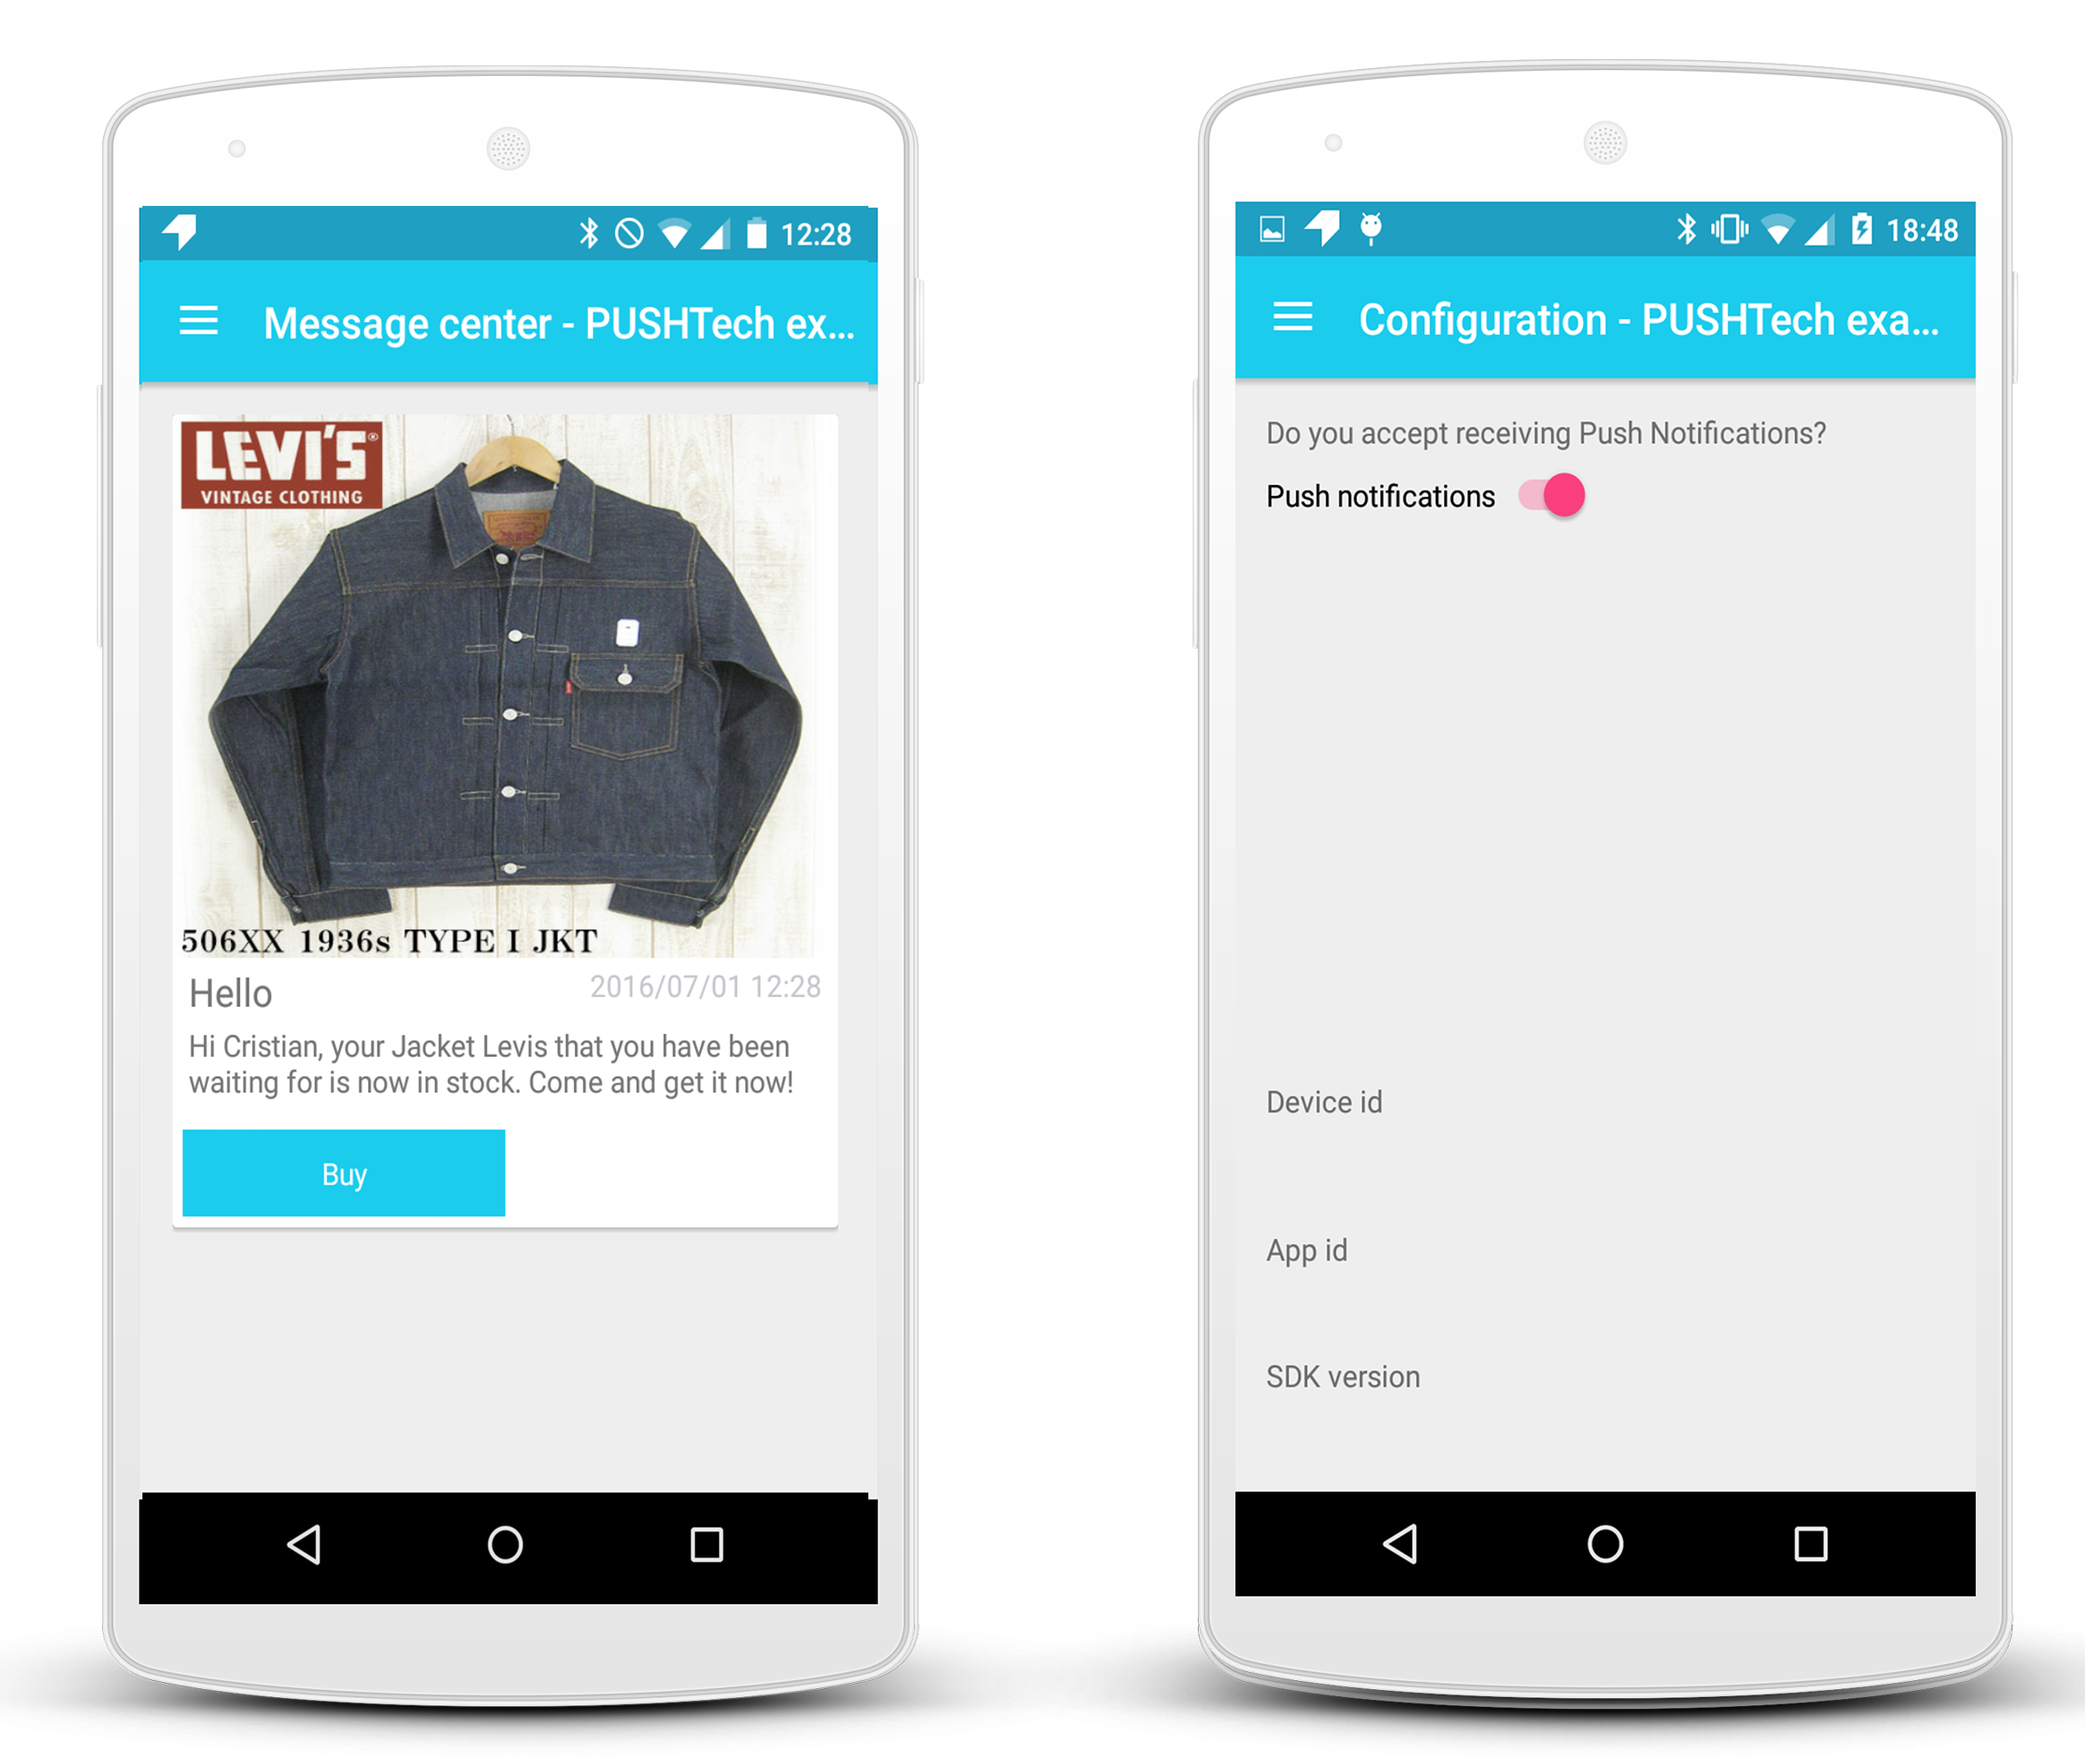
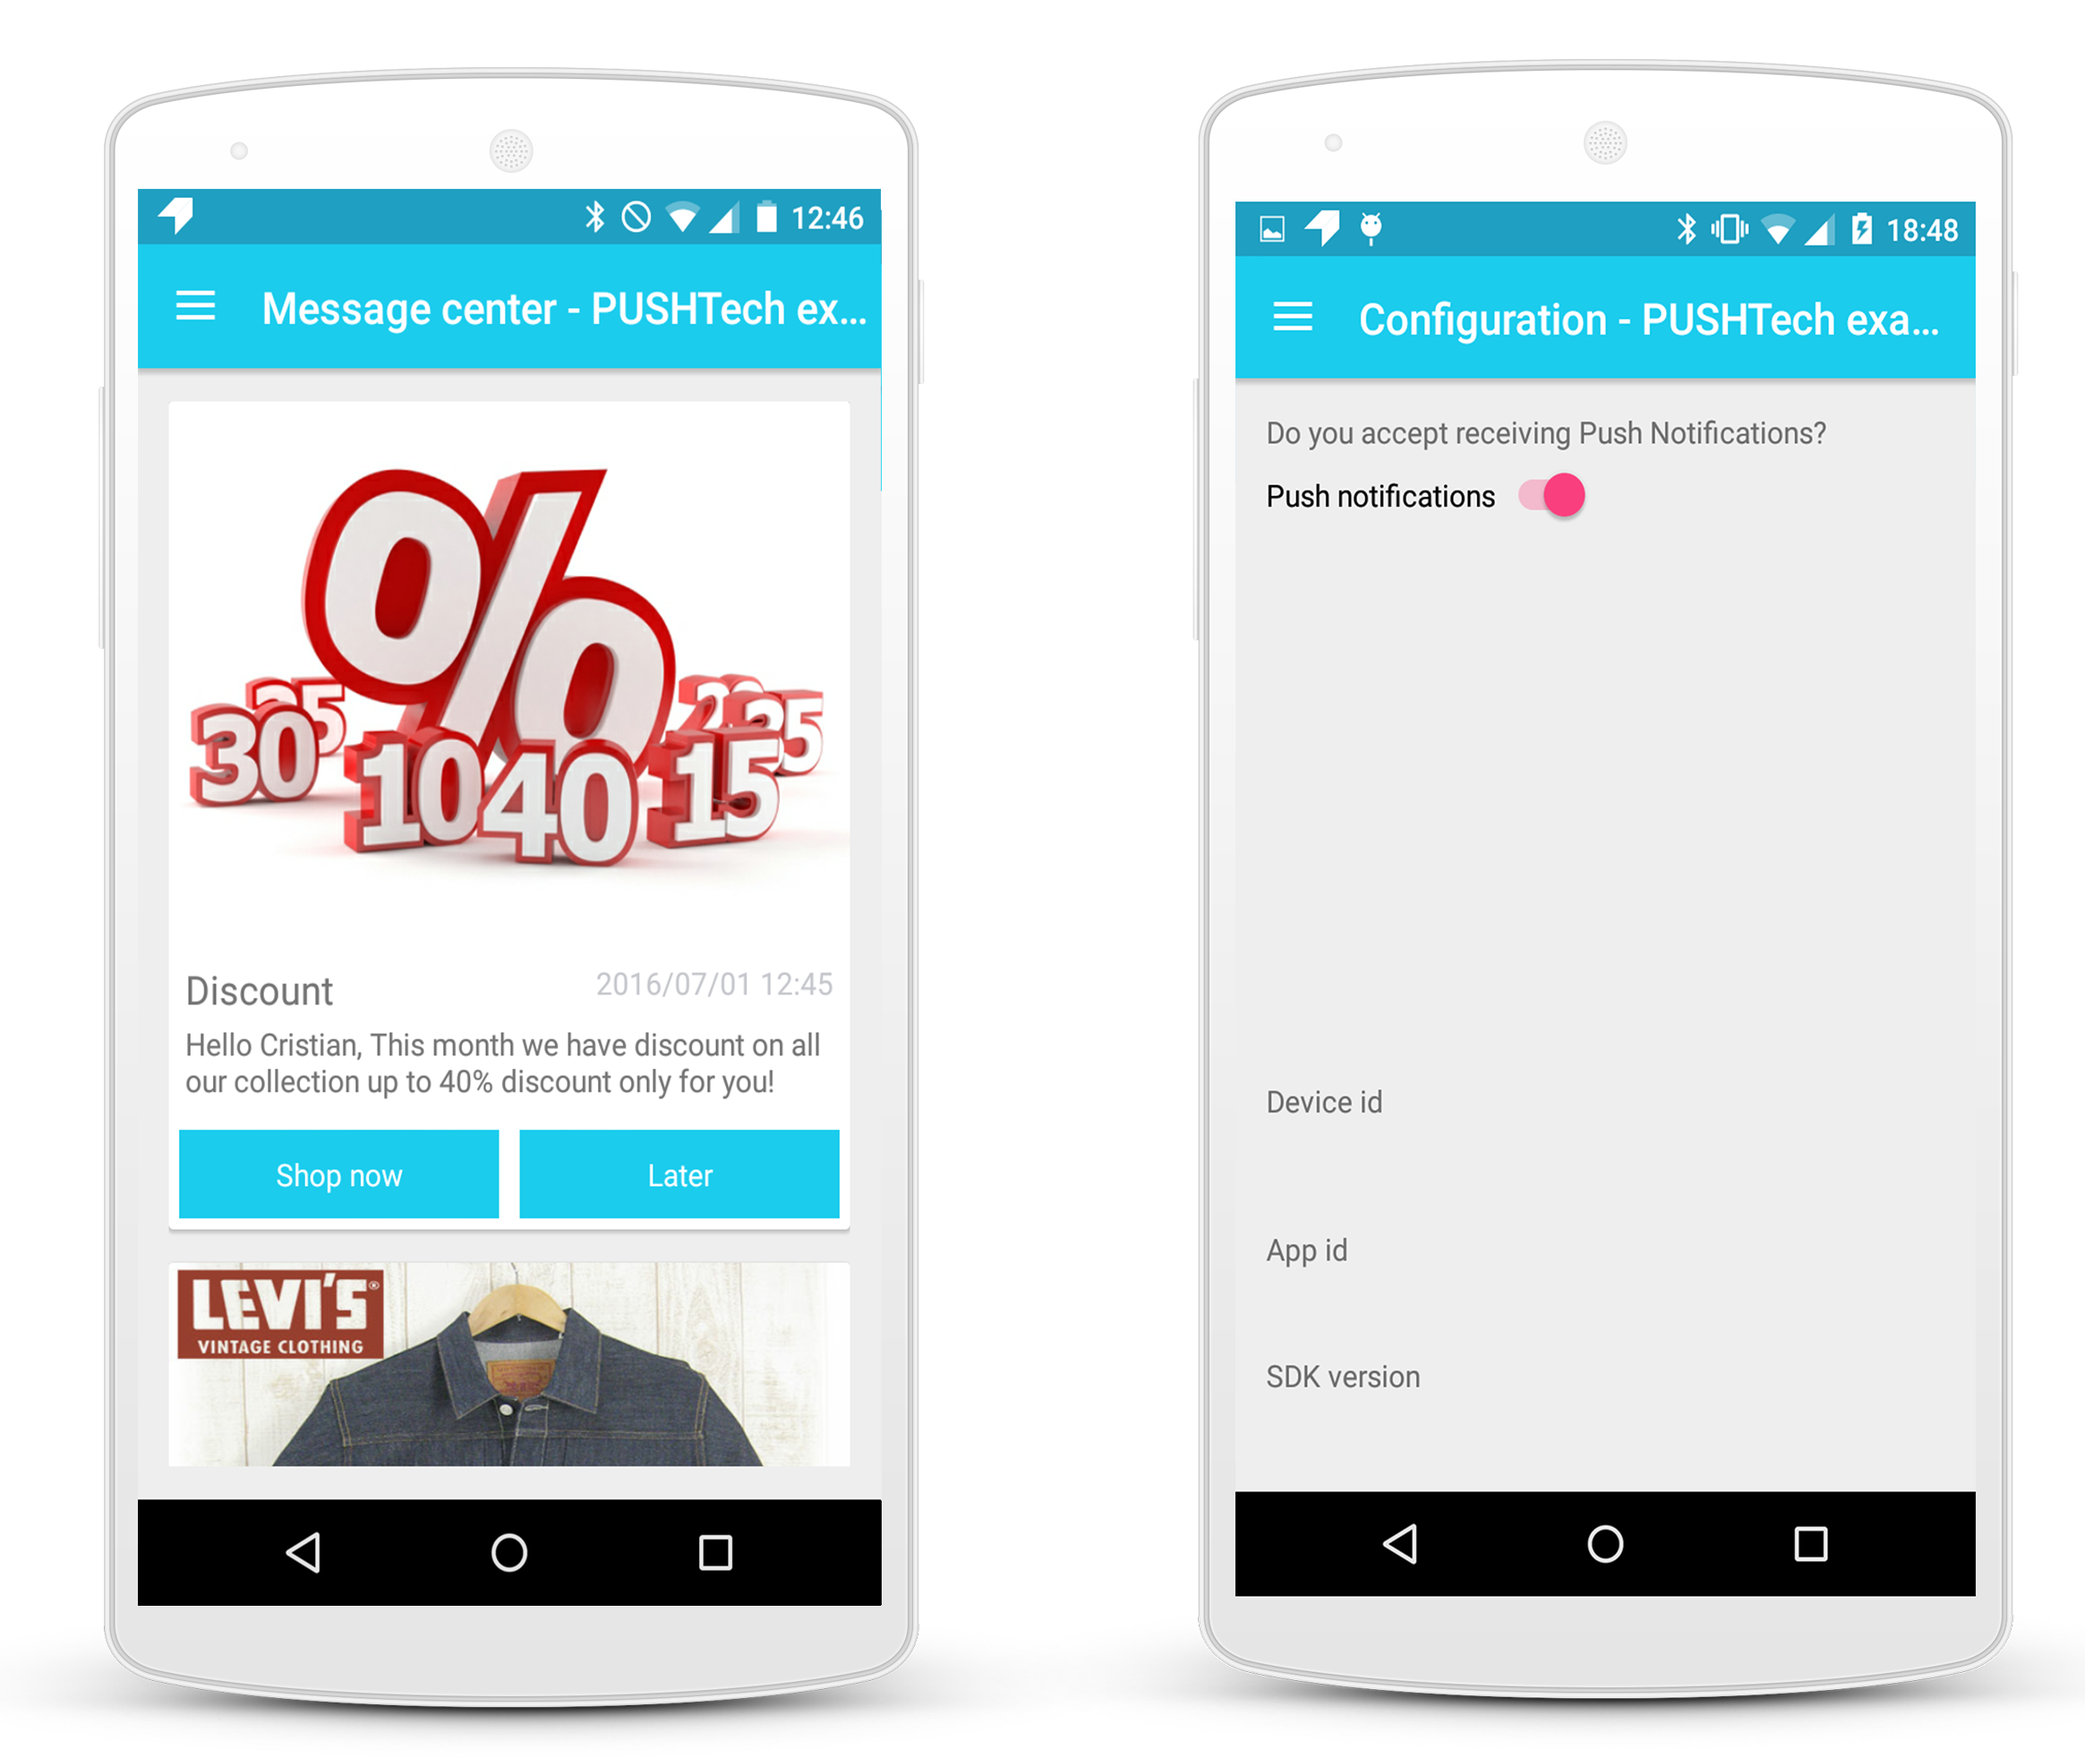
Update screenshort

diff --git a/app/src/main/java/com/pushtech/android/example/fragments/HomeFragment.java b/app/src/main/java/com/pushtech/android/example/fragments/HomeFragment.java
@@ -87,12 +87,8 @@ public class HomeFragment extends Fragment implements View.OnClickListener {
 
     private void sendFakePush() {
         PushDelivery delivery = new PushDelivery();
-        delivery.setTitle("This a title");
-        delivery.setText("This a dummy push to preview the SDK push notifications");
-        delivery.setThumbnailUrl("https://www.pushtech.com/assets/pushvideo3-fd19f2d9f7a81f9835173aa82bfe663e.jpg");
-        delivery.setCategoryActions(PushDelivery.CategoryActions.CATEGORY_LIKE_DISLIKE);
-        delivery.setActionLeft(PushDelivery.Actions.LIKE);
-        delivery.setActionRight(PushDelivery.Actions.DISLIKE);
+        delivery.setTitle("Hello Cristian");
+        delivery.setText("20% discount with this notification in A/O shop, code:E23R");
         delivery.setReceivedDate(new Date());
         PushtechApp.with(getActivity()).getDeliveriesManager().showPushNotification(delivery);
     }
